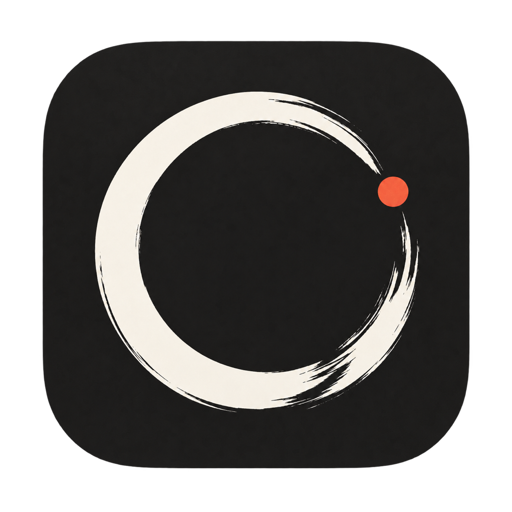
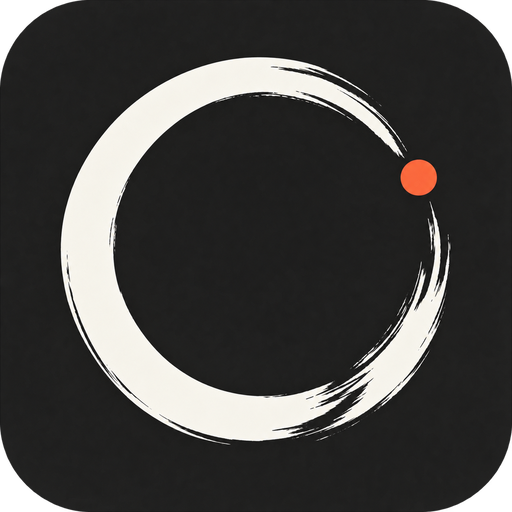
docs: refresh getting-started, deployment, and brand marks

diff --git a/apps/docs/docs/deployment.md b/apps/docs/docs/deployment.md
@@ -2,7 +2,7 @@
 
 平时写代码，最舒服的方式莫过于直接在主力机上双击桌面包开箱使用。如果你有一台性能强劲的台式机或常开的软路由/NAS，也可以将它作为常驻后台，出门在外用笔记本或平板随时连回继续工作。
 
-本文档为你介绍桌面一体包安装、远程访问与二次开发指引。
+本文档为你介绍桌面一体包安装、手机扫码接入、远程与公网访问，以及二次开发指引。
 
 ---
 
@@ -31,27 +31,103 @@
 
 ---
 
-## 3. 远程访问方案 (Tailscale + 家用台式机/NAS)
+## 3. 手机扫码接入
+
+桌面一体包自带手机接入，**默认开启、无需任何配置**：电脑上的 Piwin 开着，手机扫一次码就能随时查看和操作会话。
+
+### 3.1 在家：手机和电脑连同一个 Wi‑Fi
+
+1. 打开桌面端 **设置 → 通用与外观 → 手机接入**，「允许手机接入」默认已开，页面直接显示二维码；
+2. 手机打开 Piwin App，选择 **「扫码连接」**，扫描这个二维码；
+3. 完成配对。之后只要电脑上的 Piwin 开着、两台设备在同一网络，手机会自动重连，不需要再扫。
+
+第一次使用时可能出现两个系统弹窗，都请点 **允许**：
+
+- iPhone：询问是否允许 Piwin 访问本地网络；
+- Mac（开启了防火墙时）：询问是否允许 Piwin 接受传入的网络连接。
+
+### 3.2 出门在外：用 Tailscale（推荐）
+
+1. 在 Mac 和手机上都安装 [Tailscale](https://tailscale.com/)，登录同一个账号；
+2. 在「手机连接地址」下拉框中选择 **Tailscale** 那一项（`100.` 开头的地址），二维码会自动刷新；
+3. 用手机扫描新的二维码。
+
+Tailscale 地址在家里和外面都能连，而且全程加密。
+
+> [!TIP]
+> 如果你会在外面使用，**建议一开始就用 Tailscale 地址配对**。用局域网 IP 配对的手机离开家里 Wi‑Fi 后会连不上，需要换成 Tailscale 地址重新扫码。
+
+### 3.3 说明
+
+| 项目 | 说明 |
+| :--- | :--- |
+| 连接地址 | 默认自动选择本机局域网 IP；也可在「手机连接地址」中选择其它网卡地址，或「自定义…」填写 `ws://` / `wss://` 地址 |
+| 端口 | 默认 `8790`，被占用时自动顺延；选定的端口会被记住，已配对的手机不会因重启失效 |
+| 二维码 | 一次性使用，约 10 分钟有效；过期、被使用或地址变化后会自动换新 |
+| 安全 | 只有扫码配对过的设备才能连接；局域网连接不加密（`ws://`），请只在自己信任的网络中使用 |
+| 关闭 | 关掉「允许手机接入」开关即可，开关状态会被记住；已配对设备可在同一页面「撤销」 |
+
+### 3.4 连不上时逐项检查
+
+- **是否在同一网络**：访客 Wi‑Fi、公司网络常开启「设备隔离」，设备之间无法互访，请改用 Tailscale；
+- **电脑是否在线**：电脑上的 Piwin 需要开着，电脑睡眠时手机也连不上；
+- **设置页是否有报错**：例如「没有检测到局域网地址」（电脑没联网）或端口全部被占用；
+- **二维码是否失效**：重新打开设置页或点「刷新二维码」后再扫；
+- **系统权限**：检查 iPhone「设置 → 隐私与安全性 → 本地网络」中 Piwin 是否已开启。
+
+---
+
+## 4. 远程访问方案 (Tailscale + 家用台式机/NAS)
 
 如果你想把计算跑在家里配置更高的台式机上，用轻薄本或者平板随时随地连回：
 
-### 连接步骤
+### 4.1 连接步骤
 1. **免费组网**：在台式机和笔记本上同时安装并登录 [Tailscale](https://tailscale.com/)，加入同一网络；
 2. **启动服务**：在台式机上直接启动 Piwin；
 3. **远程输入**：在远端设备的浏览器或客户端中填入台式机的 Tailscale 内网 IP，即可丝滑接入，进度完全同步。
 
+### 4.2 公网部署（独立 Host）
+
+如果想把 Host 跑在云服务器或家里的常开机器上、通过公网域名访问，请使用独立 Host，并遵守两条规则：
+
+- **一定要加 TLS**：Host 本身只提供明文 WebSocket，必须在前面用 Caddy / nginx 等反向代理提供 `wss://` 域名，不要把端口直接暴露到公网；
+- **一定要设 Token**：只要设置了对外地址 `PIWIN_HOST_ADVERTISED_URL`，就必须同时设置 `PIWIN_HOST_TOKEN`，否则 Host 会拒绝启动。
+
+```bash
+PIWIN_HOST_BIND=127.0.0.1 PIWIN_HOST_PORT=8787 \
+PIWIN_HOST_TOKEN="$(openssl rand -hex 32)" \
+PIWIN_HOST_ADVERTISED_URL=wss://host.example.com \
+pnpm --dir apps/host dev
+```
+
+以 Caddy 为例，把域名转发到 Host 的本机端口：
+
+```text
+host.example.com {
+  reverse_proxy 127.0.0.1:8787
+}
+```
+
+然后：
+
+1. 桌面端在 **设置 → 通用与外观 → 远程 Host** 中填入 `wss://host.example.com` 和同一个 Token 连接；
+2. 在「手机接入」中打开开关，手机扫码配对即可。手机不需要 Token。
+
+> [!WARNING]
+> 经过反向代理的连接一律需要 Token 或已配对设备的凭证。使用 frp、`ngrok tcp` 等 TCP 转发同样要设置 `PIWIN_HOST_TOKEN`。
+
 ---
 
-## 4. 开发者二次开发与本地构建
+## 5. 开发者二次开发与本地构建
 
 如果你需要自行定制功能或基于源码进行编译：
 
-### 4.1 环境要求
+### 5.1 环境要求
 - **Node.js**：`>= 22.0.0`
 - **pnpm**：`>= 9.0.0`
 - **Rust**：`>= 1.75.0` (用于编译 Tauri 2 桌面端)
 
-### 4.2 常用开发指令
+### 5.2 常用开发指令
 ```bash
 # 1. 克隆代码仓库
 git clone https://github.com/mimimaster/piwin.git
@@ -76,7 +152,7 @@ pnpm package:desktop
 
 ---
 
-## 5. 关联文档
+## 6. 关联文档
 
 - [快速起步概览](./getting-started.md)
 - [OAuth 登录与多账号体系](./oauth-login.md)
